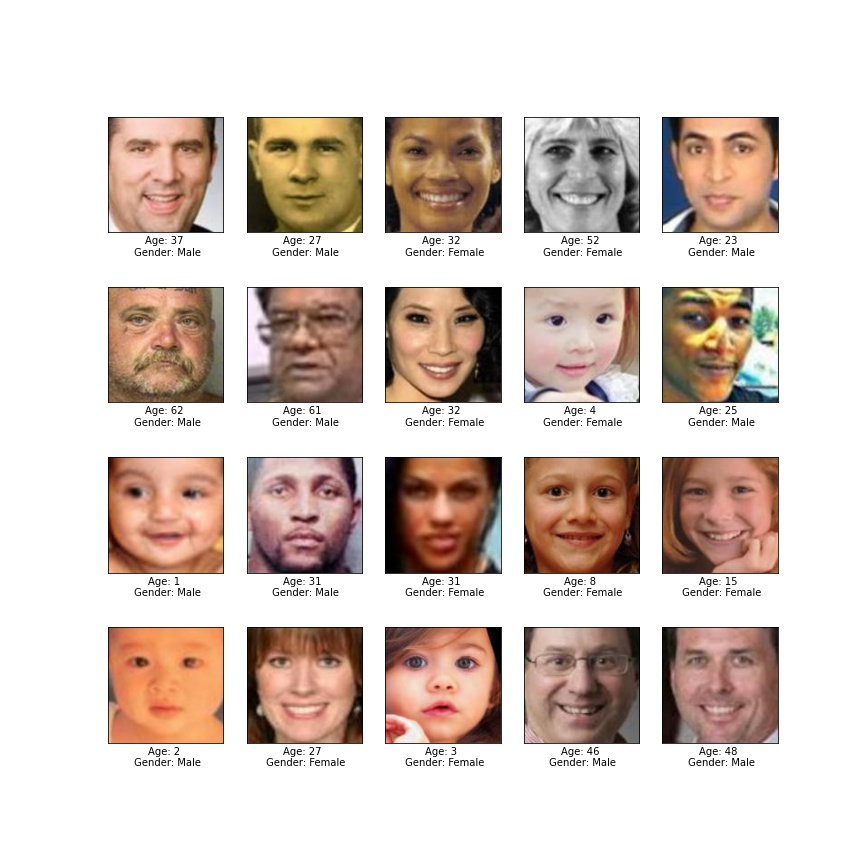
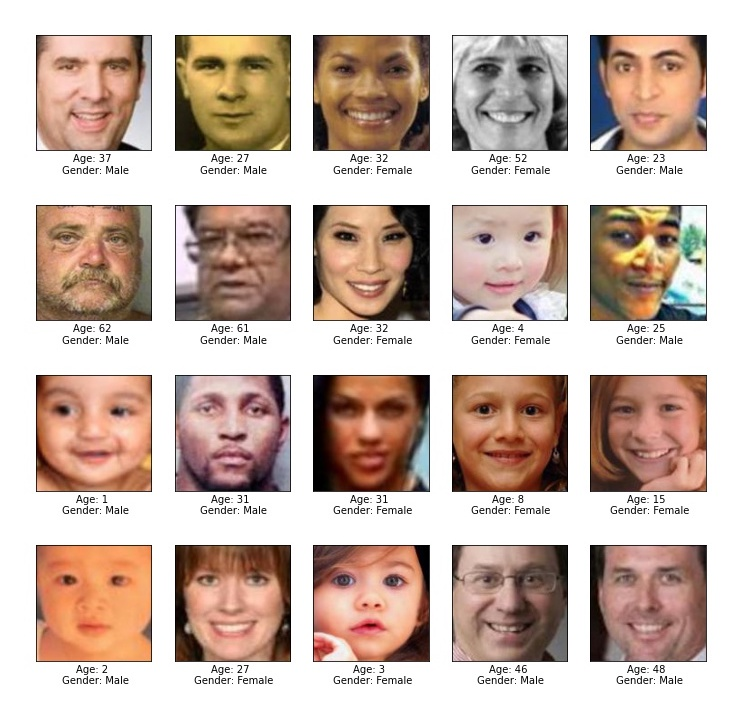
title image

diff --git a/_projects/cnn_face.md b/_projects/cnn_face.md
@@ -7,8 +7,15 @@ importance: 1
 category: Deep Learning
 ---
 
-One of the most important applications of Deep Learning is **Computer Vision**. Today, we will take a deeper dive into this topic and deploy a **Convolutional Neural Network (CNN)** to predict the age and the gender of faces from the **UTKFace dataset**.
+<div class="row">
+    <div class="col-sm mt-3 mt-md-0">
+        {% include figure.html path="assets/img/3.jpg" title="Faces" class="img-fluid rounded z-depth-1" %}
+    </div>
+</div>
+<br/><br/>
 
+One of the most important applications of Deep Learning is **Computer Vision**. Today, we will take a deeper dive into this topic and deploy a **Convolutional Neural Network (CNN)** to predict the age and the gender of faces from the **UTKFace dataset**.
+<br/><br/>
 ### **Dataset**
 
 The **UTKFace dataset** is a large-scale face dataset with an **age span from 0 to 116 years old** with a resolution of 128x128. However, to avoid long training durations, we will only use a **subset of 5,000 images**. You can download the dataset by clicking this [Link](https://patrick-richter.github.io/assets/zip/train_test.zip) (full dataset can be found on [Kaggle](https://www.kaggle.com/datasets/jangedoo/utkface-new)).
@@ -17,7 +24,7 @@ The project is written in **Python** and, before starting, make sure to install 
 
 <script src="https://gist.github.com/patrick-richter/c31f5464e7cfae8f723d758591e4766d.js"></script>
 
-To give you brief idea of how the data looks like, we will first **visualise a couple of images**. The labels regarding age and gender are hidden in the file name. For instance, the person with the file path `train_test/28_1_0_20170117180708809.jpg.chip.jpg` is 28 years old and is female (0 = female, 1 = male).
+To give you brief idea of how the data looks like, we will first **visualise a couple of images**. The labels regarding age and gender are hidden in the file name. For instance, the person with the file path `train_test/28_1_0_20170117180708809.jpg.chip.jpg` is 28 years old and is female (1 = female, 0 = male).
 
 <script src="https://gist.github.com/patrick-richter/0f2dfb96c162191dc4c3b5ab40f2ed8b.js"></script>
 
@@ -32,76 +39,10 @@ To give you brief idea of how the data looks like, we will first **visualise a c
 <br/><br/>
 ### **Data Preprocessing**
 
-To be able to preprocess the data, the **csv file** is first of all **read with pandas** and transformed into a numpy array. Then, all negative reviews receive the label 0, whereas all positive reviews receive 1 as their label.
 
-<script src="https://gist.github.com/patrick-richter/b64f6ea0eeb602649fa1253937fcaedd.js"></script>
 
-The next step is to **remove all stop words** (words such as "the", "I", or "he" that occur so frequently that they are deemed irrelevant for the classification), **digits**, and **punctuation**. By using a pre-existing stop word list from the nltk library, the undesirable words can be easily discarded.
 
-<script src="https://gist.github.com/patrick-richter/060239691b03d428c3c7cba00ffd3333.js"></script>
 
-Following that, the remaining words are stemmed, i.e., they are reduced to their base word or stem so that similar words are being represented by the same stem word. For example, ‘leaking’ and ‘leaks’ would both be converted to ‘leak’ and would therefore be seen as the same word in the upcoming steps. Due to better performance, the **Porter Stemmer**, which is slightly less aggressive than the alternative Snowball Stemmer, was implemented.
-
-<script src="https://gist.github.com/patrick-richter/289a51d0b99af9cff7d46ca6717cfb5e.js"></script>
-
-To be able to later assess the model with no bias, it is paramount to **split the dataset** into a training dataset that is used for training, and a test dataset that serves for unbiased performance assessment. Here, 20 % of the dataset is used for testing. Also note that it is important to set a random state, making sure that we always have the same split, even when you run it multiple times.
-
-<script src="https://gist.github.com/patrick-richter/c8078f707316a5310f9fc3d27fd5434f.js"></script>
-
-For the Word Embedding approach, it is necessary to have a **vocabulary** of all words that occur in the training dataset. However, it has been shown that generally Word Embeddings where the vocabulary has been reduced to only the most predictive words, yield better results and train significantly faster due to the reduced data.
-
-One common approach to limit the vocabulary is by assuming that the words that occur very rarely are less predictive than the words with higher occurrence. Here, it is decided (through trial and error) that only **words that occur 5 times or more** often are **included into the vocabulary**. This reduces the vocabulary from 9,033 to 3,424 different words.
-
-<script src="https://gist.github.com/patrick-richter/c833741c218588ff1c5f2f0fcddbaebc.js"></script>
-
-As the final step of preprocessing, the **reviews must be encoded**. In other words, the text (now only consisting of the words that are included in the vocabulary) is converted to a sequence where each integer represents one word in the vocabulary. Below, you can see an exemplary sequence.
-
-Furthermore, the **maximum number of words** of a sequence is limited to prevent the input data from getting too large. The sequences are padded to a length of 550, meaning all words that exceed the limit are cut off.
-
-<script src="https://gist.github.com/patrick-richter/e36a5bc1acee398f32f26943a8de18a2.js"></script>
-
-```
-[  38  818    3 2253  200    1  997 1042  682 1064 2503  978   33  654
-   56   14 2867    3  176   79    2   65  388  683  890    3  298  162
-  425  551 1064  139   65  819  710  503   44  103  267   13  197   78
-    1  425  140 3109  269   10   11    1 1065    4  336   32  270  367
-   74   36   15 1188   96  234   94   33  123  128 1775   65  235  127
-  645 1670  383  276   82   52   65  276 2868  105   47  637  405  172
-    9    5   57   23  405  203   45  336   21  103  717  130  100   75
-    1  458   40  446  105  405   39  919 1117   15  360  600 2145  165
-   63   46   52 3110  516    1  299  433  121  520  276  216  156   16
- 2146   56    1  228   21   92  130   56  228   21  119  561 1027    1
- 1013 1488  855 1013   24  150 1343   76  119 1489  611 2254   56    5
-  222  791 1411  105 1118  497 1343 3111  170  208  222  556  689 1103
-  112  492  351  127   31  535    4   98  202   60   36   96  276   12
-   70  110  856 1490 1066    5  258   65   44  202   71  731  319  153
-   12   65   44   65  156  417 1064  337   66  132   76 1223  308  163
- 1344  902  128 1566    7   26  776 2147   26  107  267  158  605  277
-  167  536 2869 2504  638  470  446  510  284   13  110 1142 3112  523
-  342  271   94   76  207  185   37  216  189  156   16  383  710  116
-  276   59  312   51  101  335    3  101   21   18  477  386  581  267
-   17 1567  934    7  269  168   13  200  121    2  792    2  159  295
-  295  168  810 1064  601  148  144  190  102  320 2373   41 1067 1715
-   45  261   57  102  261   35  312   35 1671   65   16  140 3109  396
-   17   16  127   99  168   11   31  170  122   28   97   29   40    0
-    0    0    0    0    0    0    0    0    0    0    0    0    0    0
-    0    0    0    0    0    0    0    0    0    0    0    0    0    0
-    0    0    0    0    0    0    0    0    0    0    0    0    0    0
-    0    0    0    0    0    0    0    0    0    0    0    0    0    0
-    0    0    0    0    0    0    0    0    0    0    0    0    0    0
-    0    0    0    0    0    0    0    0    0    0    0    0    0    0
-    0    0    0    0    0    0    0    0    0    0    0    0    0    0
-    0    0    0    0    0    0    0    0    0    0    0    0    0    0
-    0    0    0    0    0    0    0    0    0    0    0    0    0    0
-    0    0    0    0    0    0    0    0    0    0    0    0    0    0
-    0    0    0    0    0    0    0    0    0    0    0    0    0    0
-    0    0    0    0    0    0    0    0    0    0    0    0    0    0
-    0    0    0    0    0    0    0    0    0    0    0    0    0    0
-    0    0    0    0    0    0    0    0    0    0    0    0    0    0
-    0    0    0    0    0    0    0    0    0    0    0    0    0    0
-    0    0    0    0    0    0    0    0    0    0    0    0    0    0
-    0    0    0    0]
-```
 <br/><br/>
 ### **CNN Model with Word Embedding**
 
